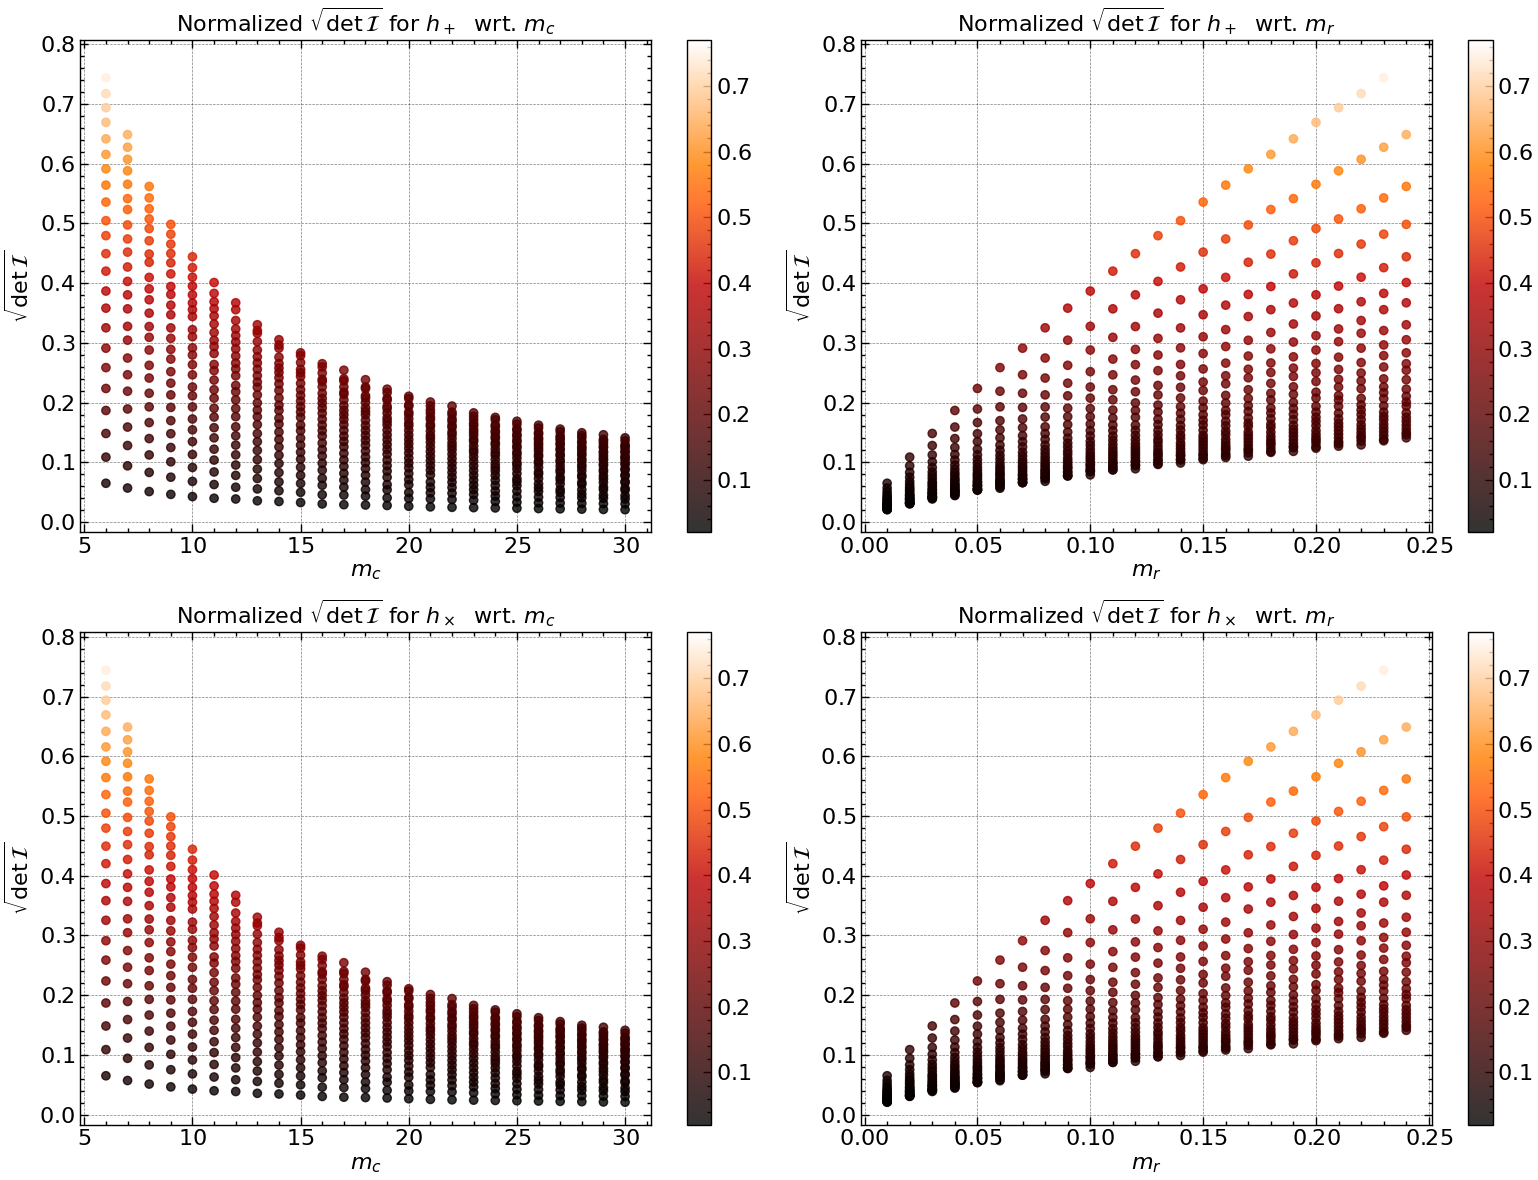
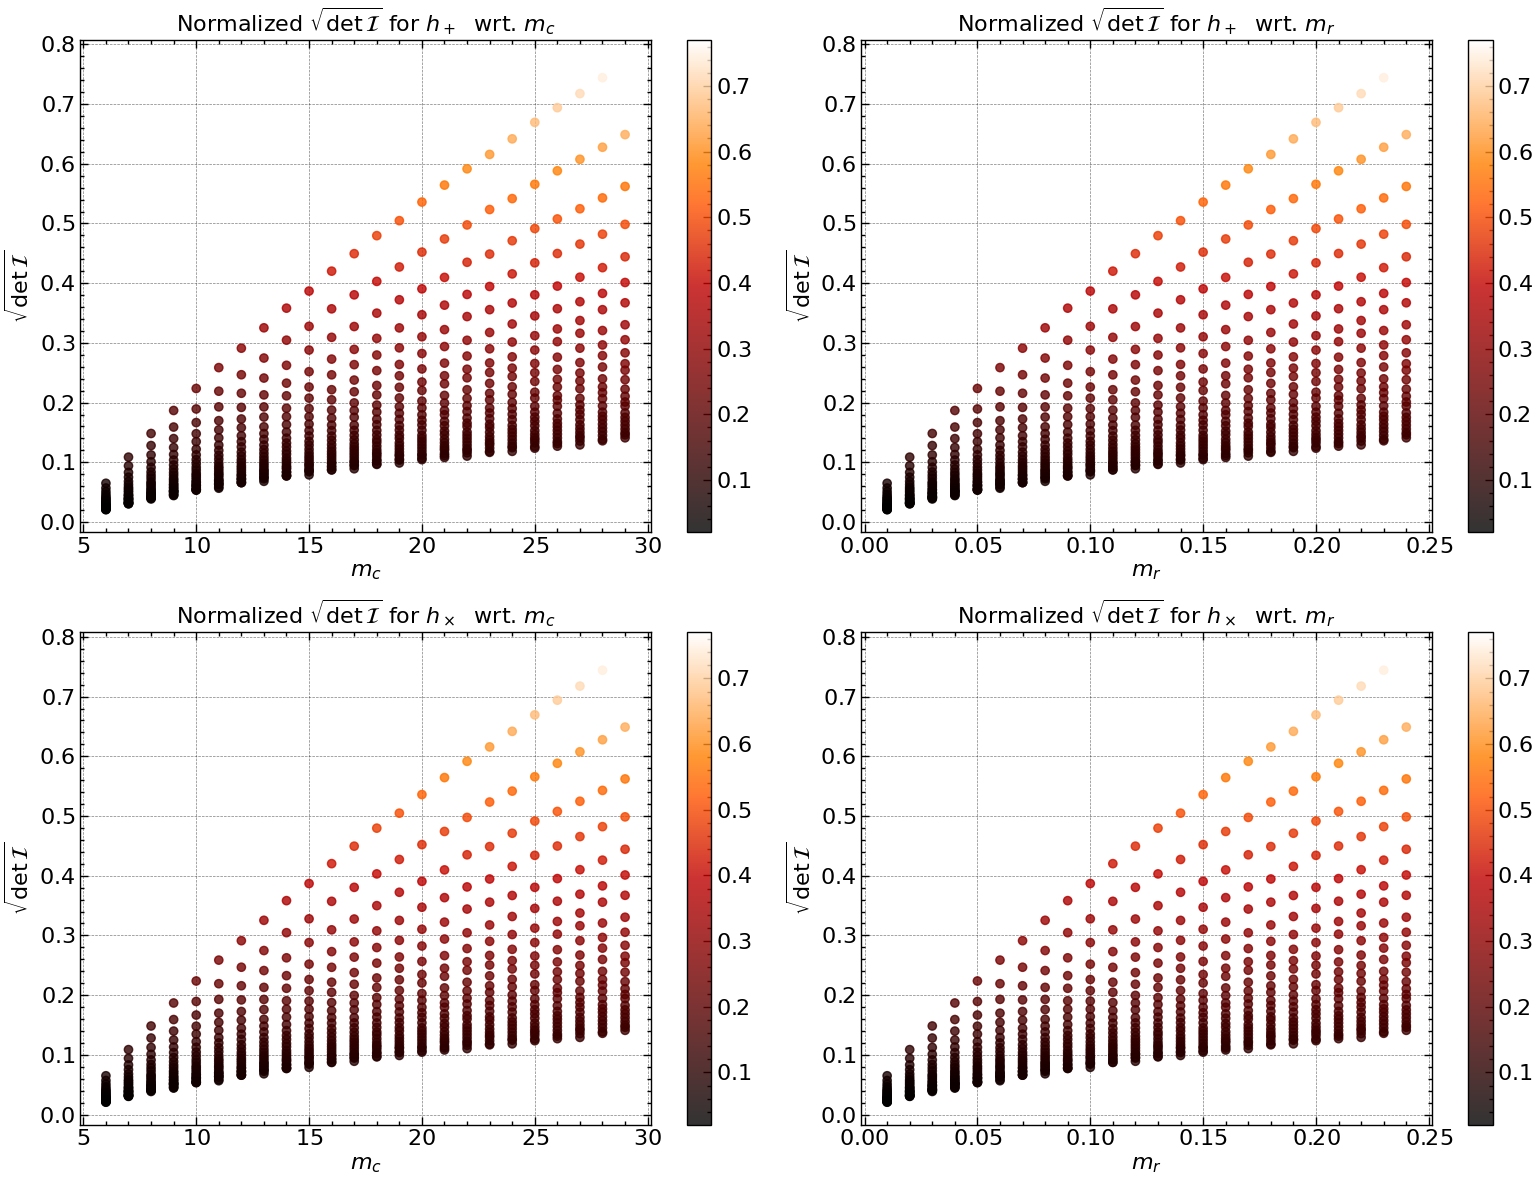
Contour mat fix

diff --git a/data/gw_plotter.py b/data/gw_plotter.py
@@ -38,7 +38,7 @@ xscale, yscale, norm, lw, alpha, size, levels, cmap, cmap_r, cr, cb = (
     2.5,
     0.8,
     36,
-    300,
+    100,
     'gist_heat',
     'gist_heat_r',
     '#B30C00',
@@ -164,9 +164,9 @@ def fim_param_plot(
     mr_repo: jnp.ndarray,
 ):
     # Grid - mc, mr
-    mc_grid, mr_grid = jnp.meshgrid(mc_repo, mr_repo)
+    mc_grid, mr_grid = jnp.meshgrid(mc_repo, mr_repo, indexing='ij')
     # Format mc, mr data
-    mc_data, mr_data = mc_grid.flatten(), mr_grid.flatten()
+    mc_data, mr_data = mc_grid.flatten(), mr_grid.T.flatten()
     # Plot init
     fig, ((ax1, ax2), (ax3, ax4)) = plt.subplots(2, 2, figsize=(16, 12))
     # Plotter
@@ -195,7 +195,7 @@ def fim_param_plot(
 # FIM - hp mc mr contour
 
 
-def fim_contour_plot(
+def fim_contour_mc_mr_plot(
     fim_hp_repo: jnp.ndarray,
     fim_hc_repo: jnp.ndarray,
     mc_repo: jnp.ndarray,
@@ -204,18 +204,18 @@ def fim_contour_plot(
     # Grid - mc, mr
     mc_grid, mr_grid = jnp.meshgrid(mc_repo, mr_repo)
     # Plot data process
-    mat_hp = fim_hp_repo.reshape((mc_repo.shape[0], mr_repo.shape[0]))
-    mat_hc = fim_hc_repo.reshape((mc_repo.shape[0], mr_repo.shape[0]))
+    mat_hp = fim_hp_repo.reshape((mc_grid.shape[0], mr_grid.shape[-1]))
+    mat_hc = fim_hc_repo.reshape((mc_grid.shape[0], mr_grid.shape[-1]))
     # Plot init
     fig, (ax1, ax2) = plt.subplots(1, 2, figsize=(16, 6))
     # Plotter
-    cs1 = ax1.contourf(mc_grid, mr_grid, mat_hp, alpha=alpha, levels=levels, cmap=cmap)
-    cs2 = ax2.contourf(mc_grid, mr_grid, mat_hc, alpha=alpha, levels=levels, cmap=cmap)
+    cs1 = ax1.contourf(mc_repo, mr_repo, jnp.rot90(mat_hp, k=-1), alpha=alpha, levels=levels, cmap=cmap)
+    cs2 = ax2.contourf(mc_repo, mr_repo, jnp.rot90(mat_hc, k=-1), alpha=alpha, levels=levels, cmap=cmap)
     # Plot customization
     ax1.set(xlabel=f"{label_repo[0]}", ylabel=f"{label_repo[1]}",
-            title=f"Normalized {lbl_sqrtdet} for {lbl_grad}{lbl_plus}", xscale=xscale)
+            title=f"Normalized {lbl_sqrtdet} for {lbl_grad}{lbl_plus}")
     ax2.set(xlabel=f"{label_repo[0]}", ylabel=f"{label_repo[1]}",
-            title=f"Normalized {lbl_sqrtdet} for {lbl_grad}{lbl_cros}", xscale=xscale)
+            title=f"Normalized {lbl_sqrtdet} for {lbl_grad}{lbl_cros}")
     plt.colorbar(cs1, ax=ax1)
     plt.colorbar(cs2, ax=ax2)
     # Plot admin

diff --git a/main.py b/main.py
@@ -59,5 +59,5 @@ gw_plotter.fim_plot(mock_fim)
 gw_plotter.bilby_plot(f_sig, f_psd)
 # Generated fim and contour
 gw_plotter.fim_param_plot(data_fim_hp_repo, data_fim_hc_repo, mc_repo, mr_repo)
-gw_plotter.fim_contour_plot(
+gw_plotter.fim_contour_mc_mr_plot(
     data_fim_hp_repo, data_fim_hc_repo, mc_repo, mr_repo)
